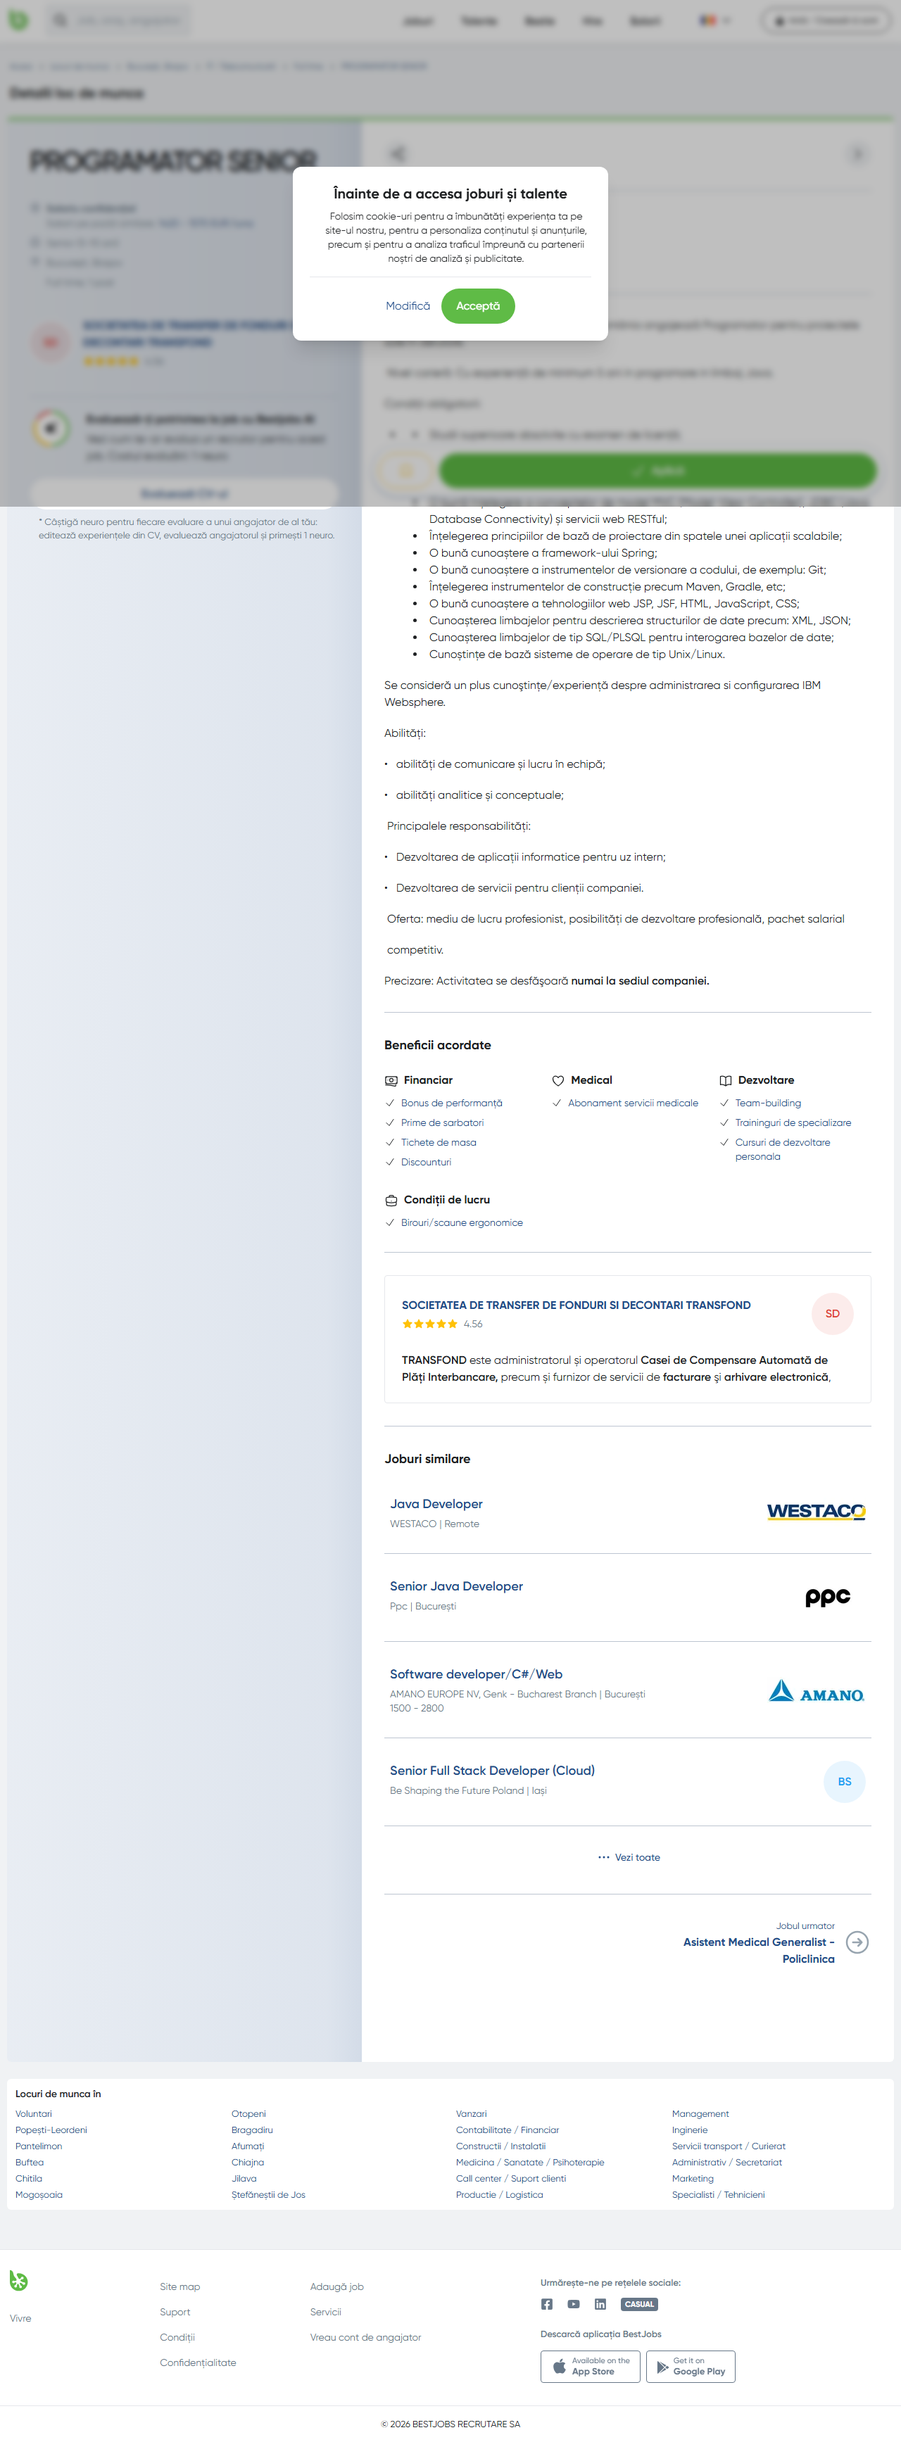
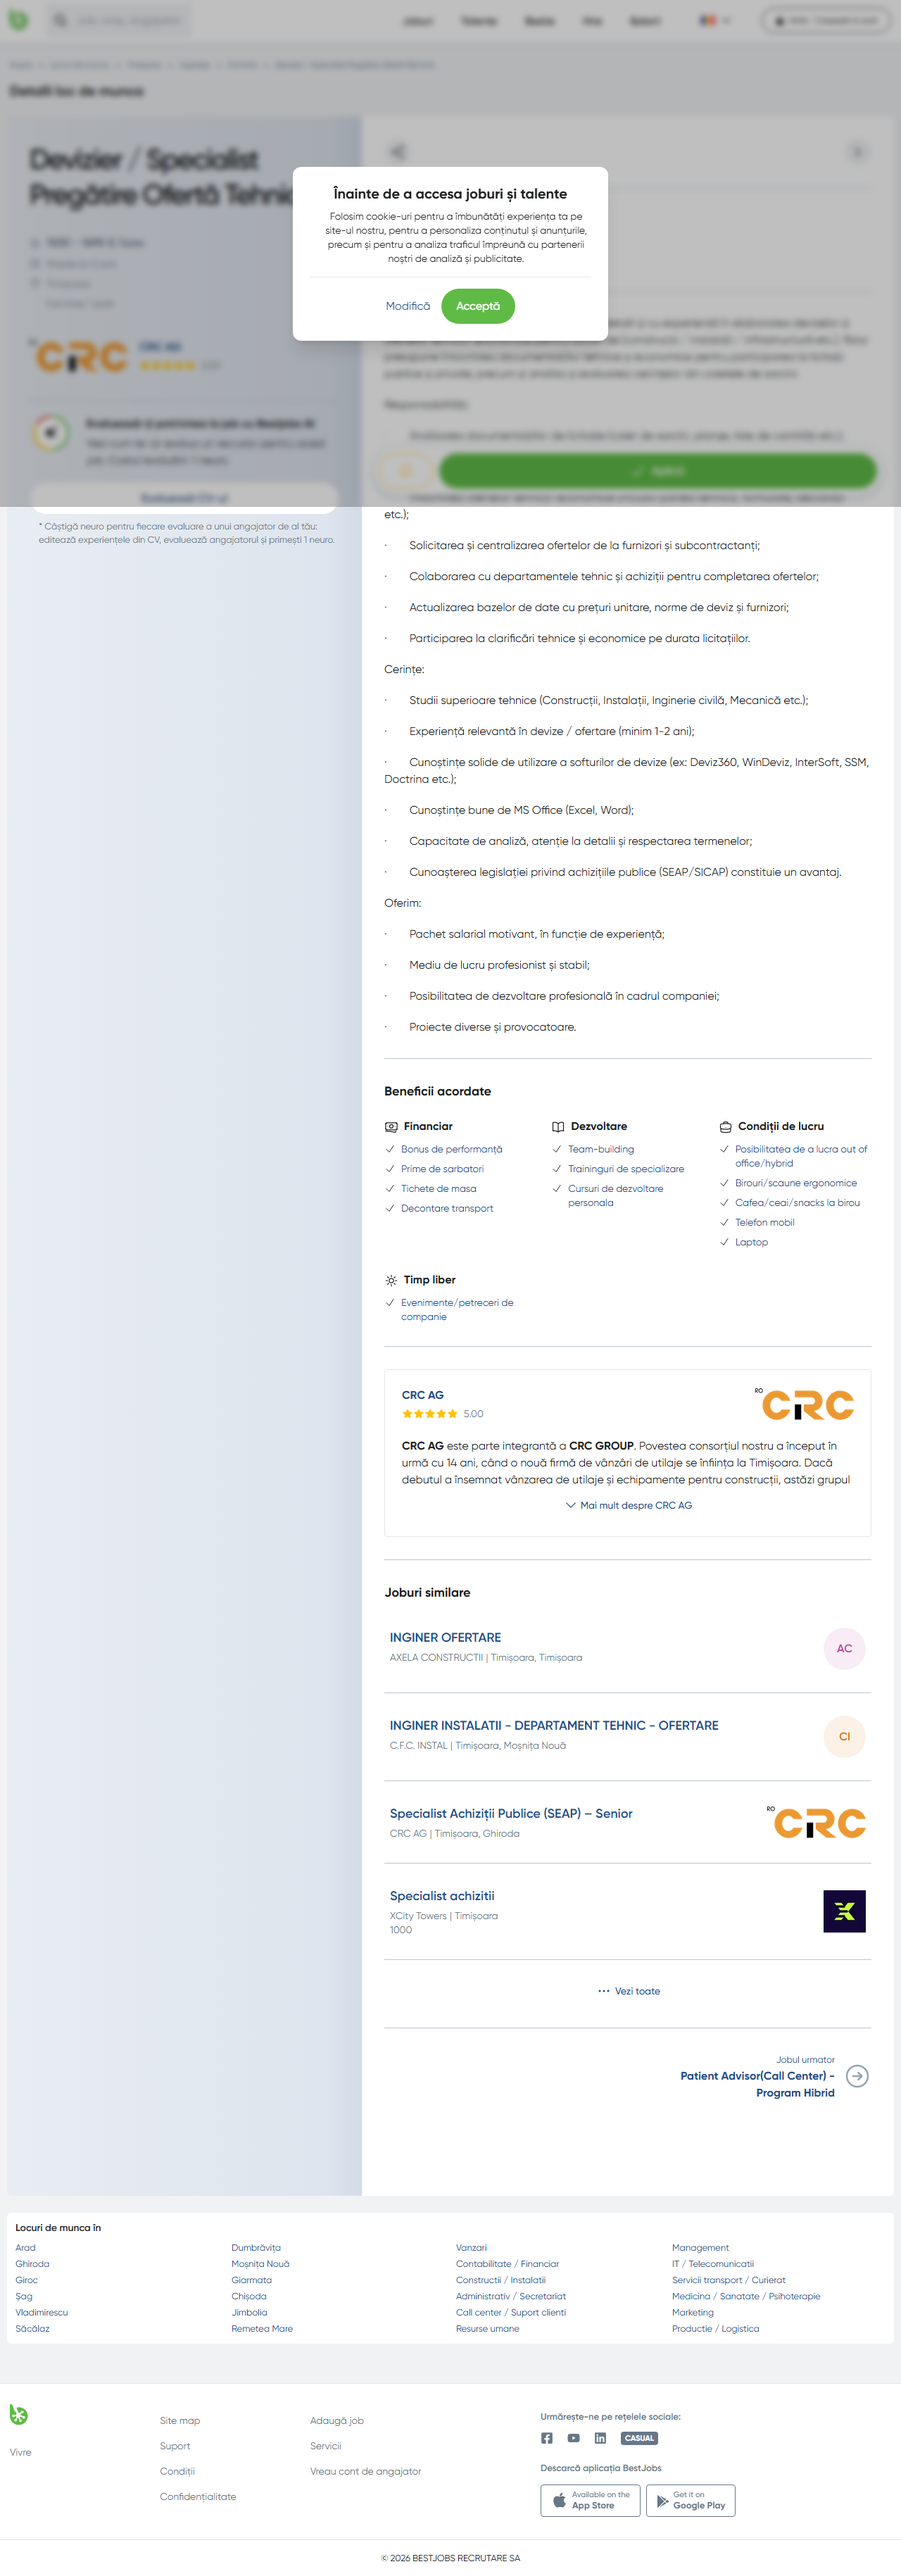
metadata scraping integrated (payment, work_type and experience). will add more

diff --git a/scrapers/best_jobs_scrapper.py b/scrapers/best_jobs_scrapper.py
@@ -1,6 +1,7 @@
 import asyncio
 import itertools
-from typing import List, Self
+from typing import Coroutine, List, Self
+from models.metadata import Metadata
 from scrapers.scrapper import Scrapper
 from models.filter import Filter
 from playwright.async_api import async_playwright, Page, Browser, Locator
@@ -22,32 +23,56 @@ class BestJobsScrapper(Scrapper):
         if(self.filter.location):
             baseUrl+= 'locuri-de-munca-in-'+self.filter.location
         return [baseUrl + "/"+role for role in self.filter.roles]
-    async def __scrape_hrefs(self,page:Page):    
-        return ["https://www.bestjobs.eu" + await selector.get_attribute("href") for selector in await page.locator("a[href] .absolute.inset-0.z-1").all()]
+    async def __generate_page(self,browser:Browser) -> Page:
+        context = await browser.new_context()
+        page = await context.new_page()
+        page.set_default_timeout(60000)
+        return page
+
+    async def __scrape_hrefs(self,page:Page) -> List[Metadata]:    
+        return ["https://www.bestjobs.eu" + await selector.get_attribute("href") for selector in await page.locator("a[href].absolute.inset-0.z-1").all()]
 
     async def __scrape_companies(self,page:Page) -> str:
-        return [await selector.text_content() for selector in await page.locator("div .mt-2.line-clamp-1.w-full.text-sm.text-ink-medium").all()]
+        return [await selector.text_content() for selector in await page.locator("div.mt-2.line-clamp-1.w-full.text-sm.text-ink-medium").all()]
     async def __scrape_metadata(self, page:Page, jobUrl:str)->str:
-        print(jobUrl)
-        await page.goto(jobUrl)
-        await page.wait_for_load_state("networkidle") 
-        await page.screenshot(path="screenshot.png", full_page=True)
-    
-        return "work_type"
+        try:
+            print(jobUrl)
+            await page.goto(jobUrl)
+            await page.evaluate("window.scrollTo(0, document.body.scrollHeight)")
+            await page.wait_for_load_state("domcontentloaded") 
+            await page.evaluate("window.scrollTo(0, 0)")
+            metadata = Metadata()
+            payment_locator = page.locator("span.font-bold").nth(0)
+            experience = ", ".join([await selector.text_content() for selector in await page.locator("a.hover\\:text-ink").all()])
+            metadata.experience = experience
+            if await payment_locator.is_visible():
+                metadata.payment = await payment_locator.text_content()
+            work_type_locator = page.locator("span.font-bold").nth(1)
+            if await work_type_locator.is_visible():
+                metadata.work_type = await work_type_locator.text_content()
+            return metadata
+        except Exception:
+            raise
+        finally:
+            await page.close()
         
     async def __scrape_page(self,page:Page, url:str) -> zip:
         try:
-            await asyncio.sleep(5) #Set a 5 sec delay before each scrapping
             await page.goto(url)
             await page.evaluate("window.scrollTo(0, document.body.scrollHeight)")
-            await page.wait_for_load_state("networkidle") 
+            await page.wait_for_load_state("domcontentloaded") 
             await page.evaluate("window.scrollTo(0, 0)")
             hrefs = await self.__scrape_hrefs(page)
             companies = await self.__scrape_companies(page)
-            await page.close()
             return zip(hrefs,companies)
-        except Exception as e:
-            return zip()
+        except Exception:
+            raise
+        finally:
+            await page.close()
+            
+    async def __delay_task(self,delay:float,task:Coroutine):
+        await asyncio.sleep(delay)
+        return await task
 
     async def scrape(self) -> AppResponse:
         if(not self.filter):
@@ -56,19 +81,23 @@ class BestJobsScrapper(Scrapper):
         search_urls = self.__buildSearchUrls()
         async with async_playwright() as p:
             try:
-                total_search_urls:int = len(search_urls)
+                
                 browser = await p.chromium.launch()
-                pages = [await browser.new_page() for _ in range(total_search_urls)]
-                tasks = [self.__scrape_page(pages[i % len(pages)], url) for i, url in enumerate(search_urls)]
-                response = await asyncio.gather(*tasks, return_exceptions=True)
+                response = await asyncio.gather(*[self.__delay_task(3,self.__scrape_page(page=await self.__generate_page(browser), url=url)) 
+                                                  for url 
+                                                  in search_urls], 
+                                                  return_exceptions=True)
+                metadatas = await asyncio.gather(*[self.__delay_task(3, self.__scrape_metadata(await self.__generate_page(browser), jobUrl=job_url)) 
+                                                  for job_url,_ 
+                                                  in list(itertools.chain(*response))], 
+                                                  return_exceptions=True)
                
-                results = [Result(company=company, job_url=job_url, meta_info="") for job_url,company in list(itertools.chain(*response))]
+                results = [Result(company=company, job_url=job_url, meta_info=metadata) 
+                           for (job_url,company), metadata 
+                           in zip(list(itertools.chain(*response)), metadatas)]
+                print(results)
                 return AppResponse(
-                    results=results,
-                    statistics=Statistic(
-                        totalRequestsSent=total_search_urls,
-                        jobsFound=len(results)
-                    )
+                  results=results
                 )
             except Exception:
                 raise

diff --git a/models/result.py b/models/result.py
@@ -2,8 +2,10 @@
 from typing import Optional
 from pydantic import BaseModel
 
+from models.metadata import Metadata
+
 class Result(BaseModel):
     company:Optional[str] = ""
     job_url:str
-    meta_info:Optional[str] = ""
+    meta_info:Optional[Metadata]
     

diff --git a/models/metadata.py b/models/metadata.py
@@ -3,5 +3,6 @@ from pydantic import BaseModel
 
 
 class Metadata(BaseModel):
-    date: Optional[str]
-    role:Optional[str]
+    work_type: Optional[str] = ""
+    payment: Optional[str] = ""
+    experience: Optional[str] = ""
